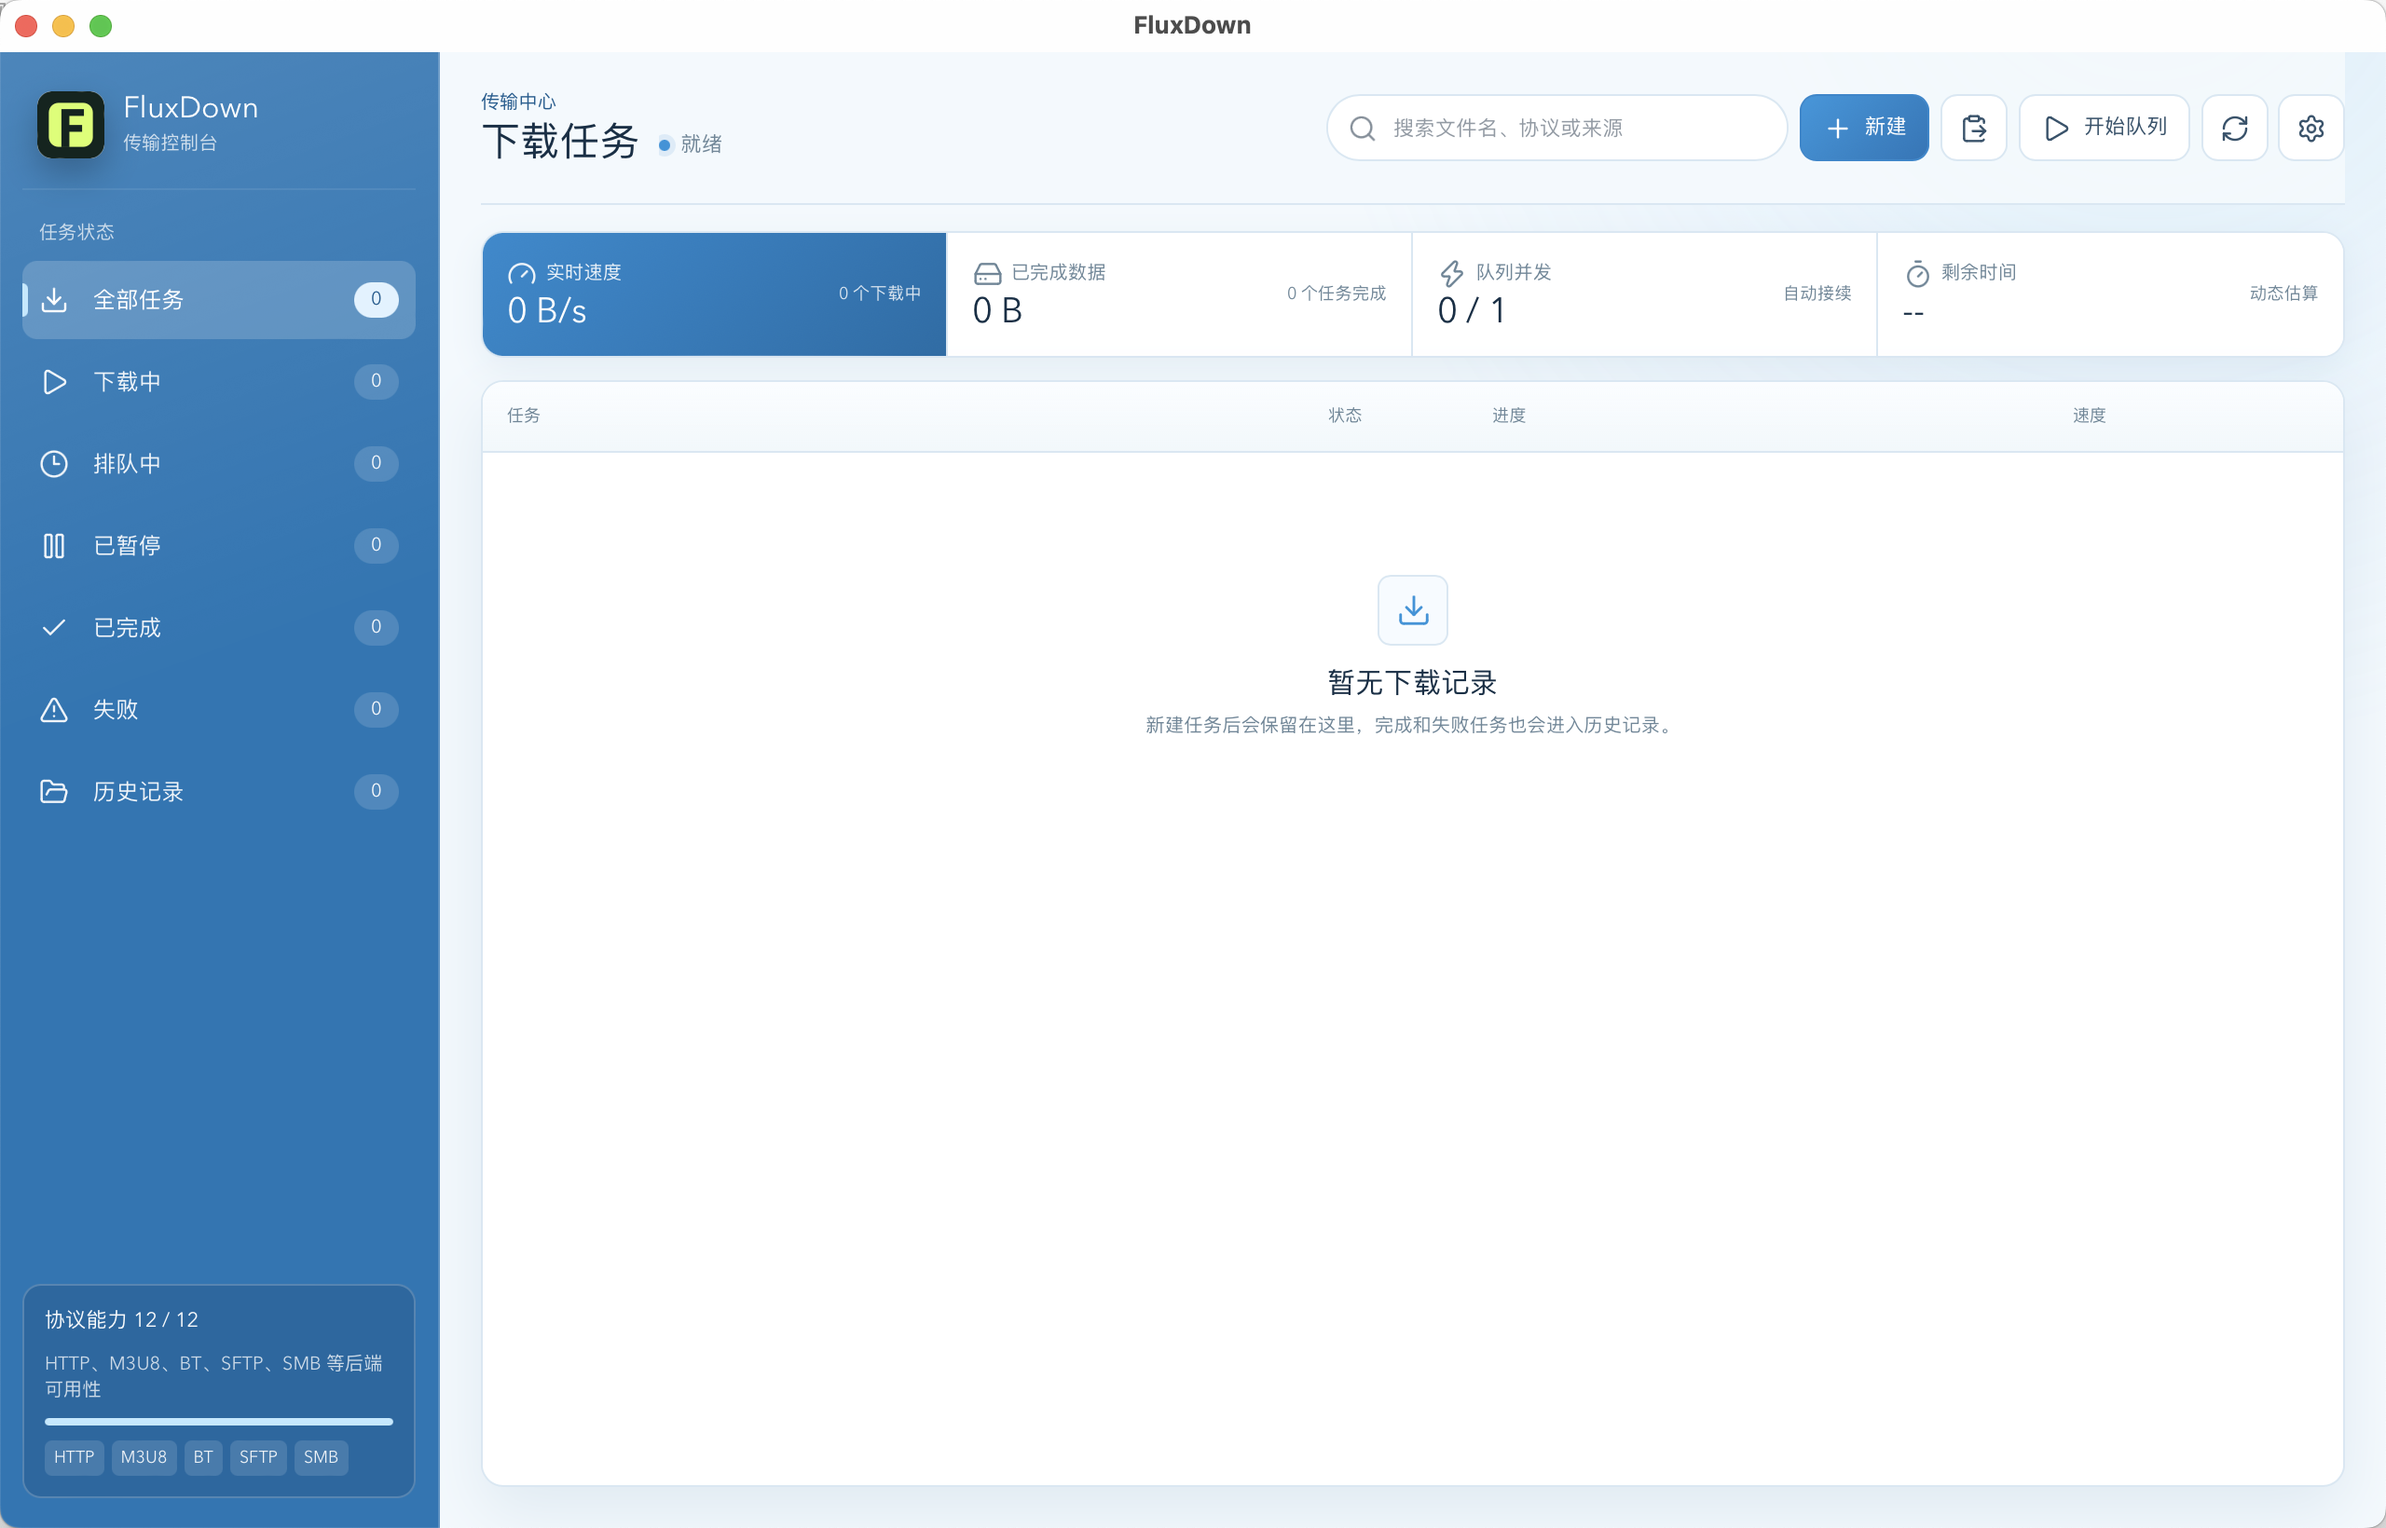
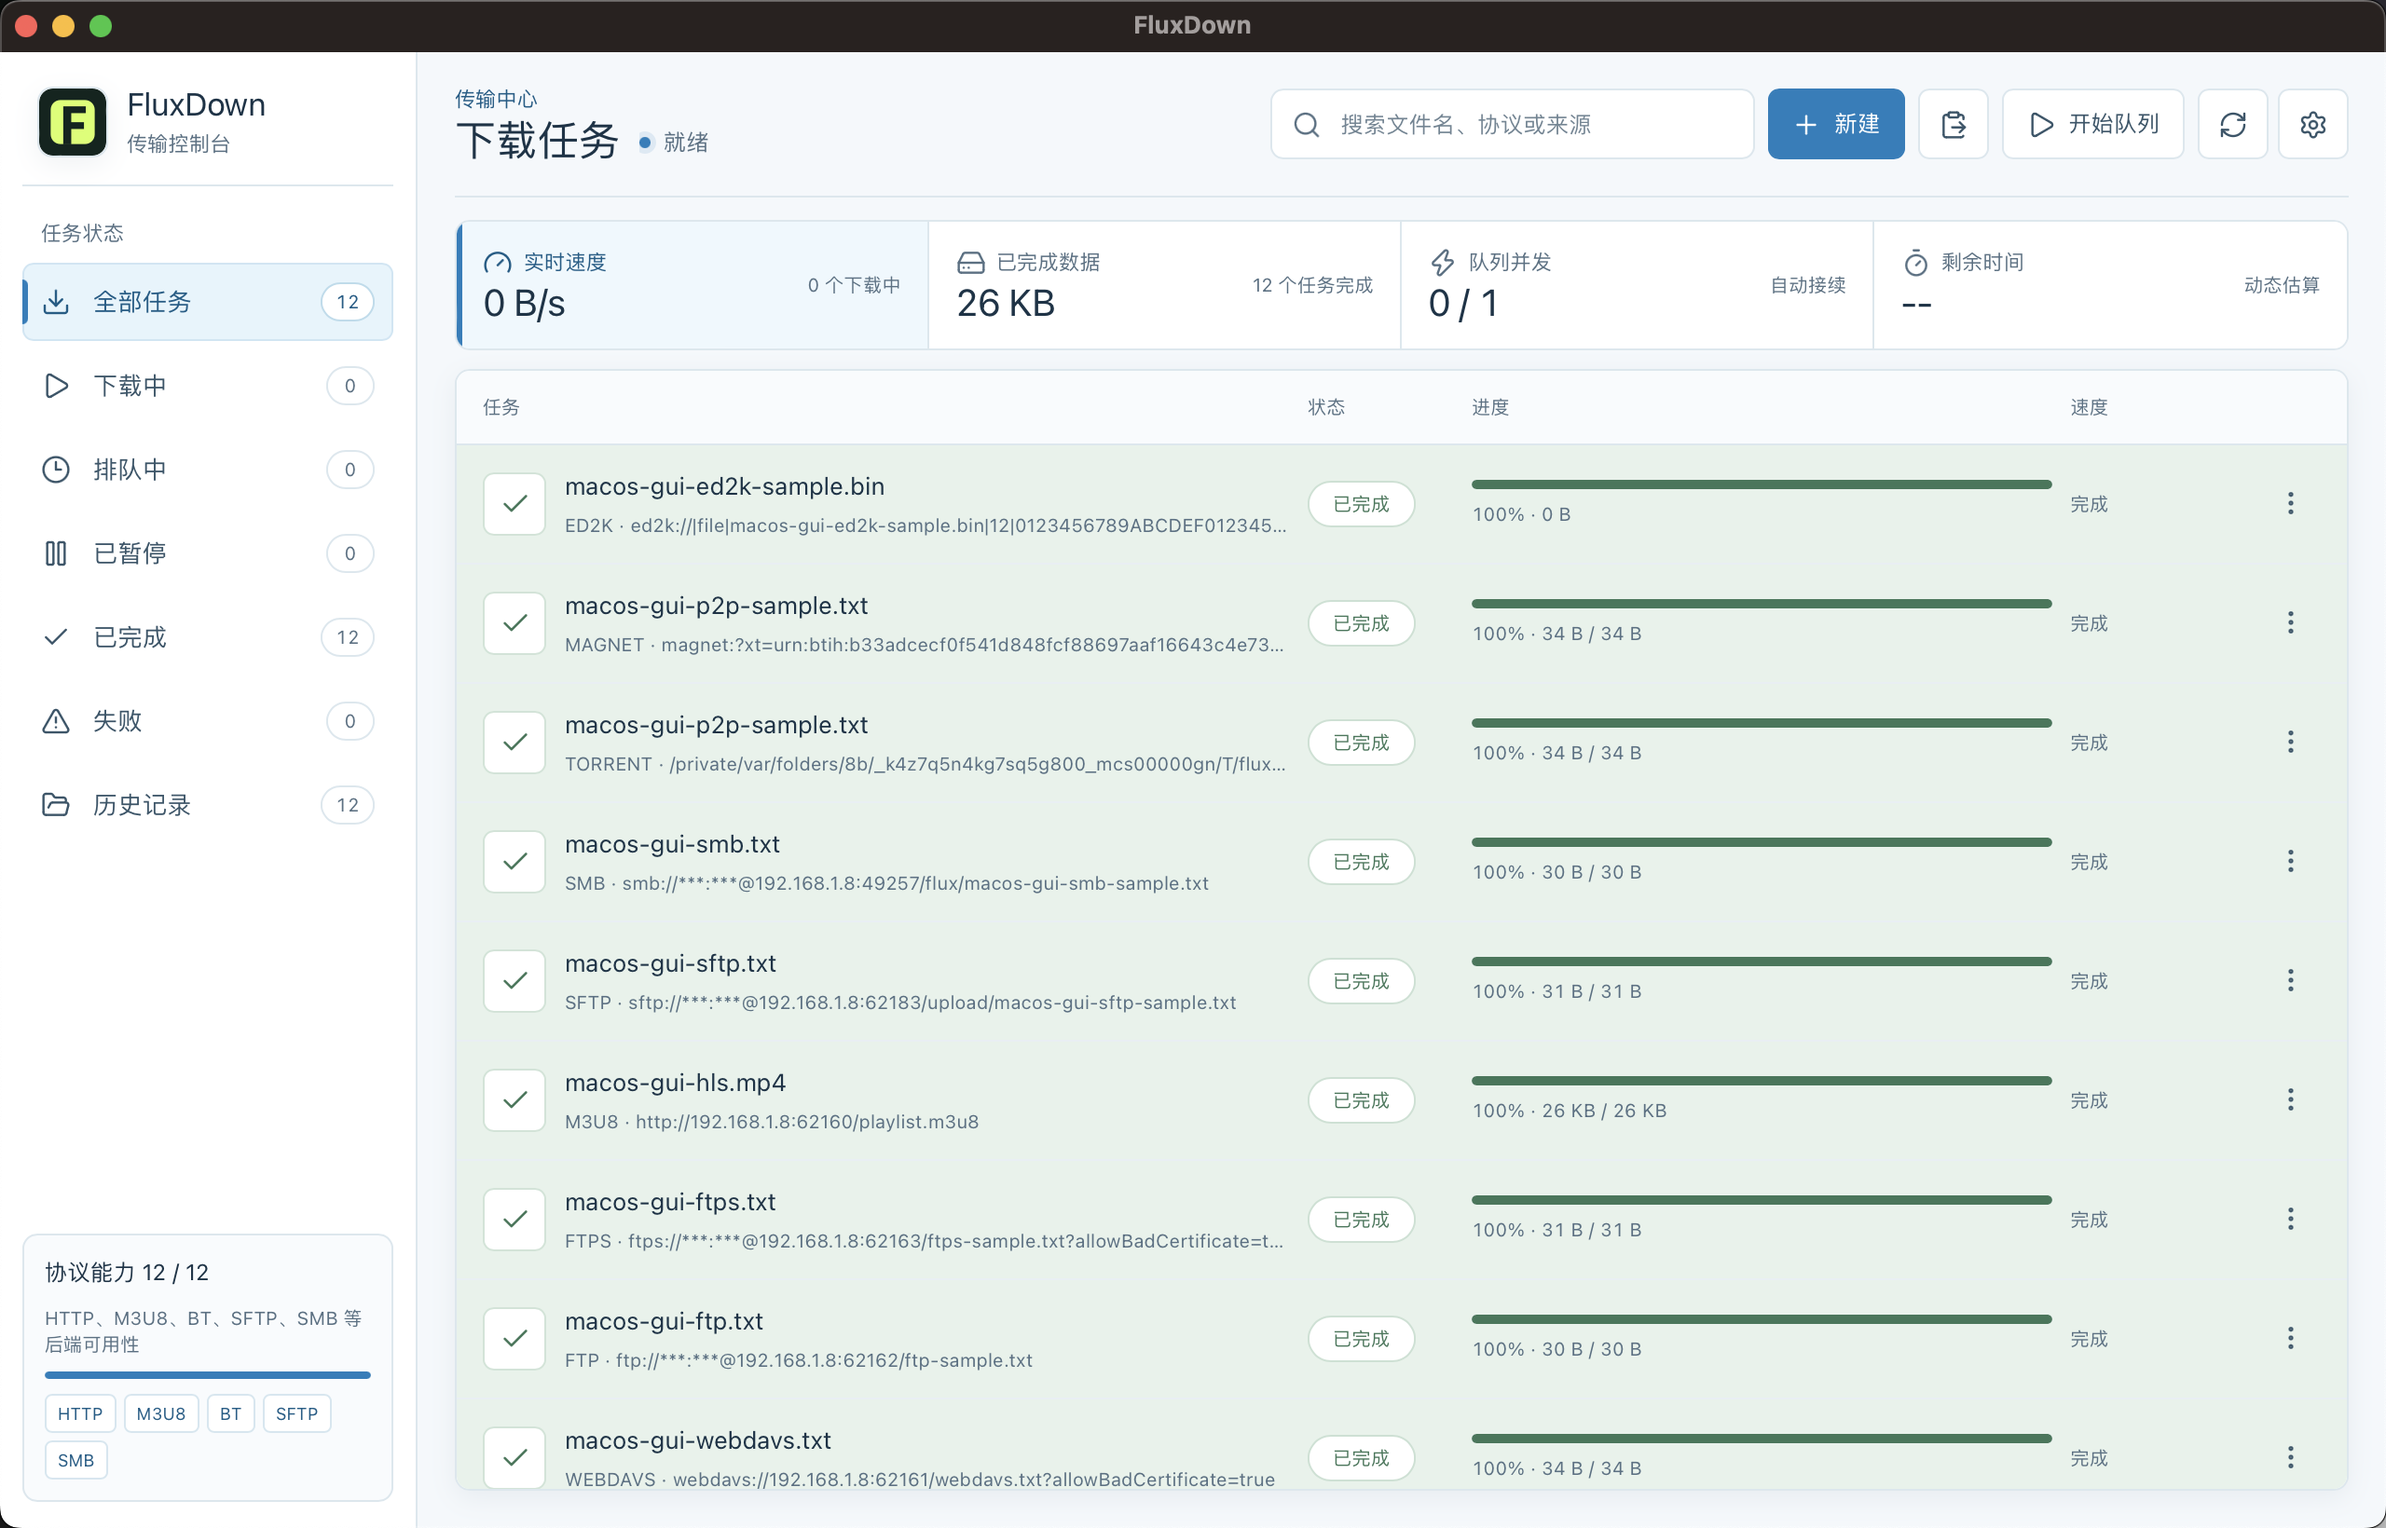
更新界面截图并发布 FluxDown 1.0.9

diff --git a/docs/download-verification.md b/docs/download-verification.md
@@ -1,6 +1,6 @@
 # 下载验证状态
 
-截至 2026-08-05，FluxDown 已完成 macOS、Windows、Android、iOS 当前阶段的界面截图和验证记录，但还不能表述为“所有平台、所有协议、所有前台 GUI/App 路径都已完成真实下载验证”。Android 真机已经补过一轮正常 App 下载验证；macOS CLI 已补充可重复脚本化多协议验证，macOS 原生 Tauri GUI 本轮又通过真实前台操作覆盖 HTTP、HTTPS、WebDAV transport、WebDAVS transport、FTP、FTPS、SFTP、SMB、m3u8/HLS、Torrent、Magnet 和 ed2k 共 12 类任务，其中前 11 类均完成真实文件落盘、大小和 SHA-256 校验，ed2k 只完成向迅雷的系统移交。iOS 已在 simulator 中跑通 App 内 HTTP/fMP4 HLS/fMP4 BYTERANGE HLS/TS HLS 下载 smoke；Windows CLI 和原生 Tauri GUI 已完成 12 协议真实用例验证；Linux 目前仍只有 CLI/GUI 构建产物和包文件存在性检查，尚未在 Linux 桌面环境完成真实 GUI 下载验证。
+截至 2026-08-06，FluxDown 已完成 macOS、Windows、Android、iOS 当前阶段的界面截图和验证记录，但还不能表述为“所有平台、所有协议、所有前台 GUI/App 路径都已完成真实下载验证”。Android 真机已经补过一轮正常 App 下载验证；macOS CLI 已补充可重复脚本化多协议验证，macOS 原生 Tauri GUI 本轮又通过真实前台操作覆盖 HTTP、HTTPS、WebDAV transport、WebDAVS transport、FTP、FTPS、SFTP、SMB、m3u8/HLS、Torrent、Magnet 和 ed2k 共 12 类任务，其中前 11 类均完成真实文件落盘、大小和 SHA-256 校验，ed2k 只完成向迅雷的系统移交。iOS 已在 simulator 中跑通 App 内 HTTP/fMP4 HLS/fMP4 BYTERANGE HLS/TS HLS 下载 smoke；Windows CLI 和原生 Tauri GUI 已完成 12 协议真实用例验证；Linux 目前仍只有 CLI/GUI 构建产物和包文件存在性检查，尚未在 Linux 桌面环境完成真实 GUI 下载验证。
 
 本页用于区分两类容易混淆的结论：
 
@@ -76,6 +76,8 @@ macOS 桌面、macOS CLI 和 iOS 当前目标的短清单见 [Apple 目标验收
 2026-08-04 为发布 `1.0.8` 完成本地发布前复验：版本已同步到根/桌面 npm 包、Rust workspace、Tauri 配置和 Flutter `1.0.8+9`；`npm run verify:macos`、`npm run verify:ios`、Android release APK/AAB 构建、桌面 lint、`npm run verify:artifacts` 和 `git diff --check` 均通过。macOS 验证覆盖 fmt、严格 Clippy、Rust/CLI/desktop 测试、release CLI HTTP/HLS/HLS BYTERANGE/FTP/FTPS/SFTP/SMB/Torrent/Magnet/队列控制 fixture、桌面 command FTPS/SFTP/SMB/Torrent/Magnet fixture、`FluxDown.app` ad-hoc 签名、`FluxDown_1.0.8_aarch64.dmg` checksum、许可证和 CI 手动触发策略；iOS 验证覆盖 analyze、38 项 Flutter 测试、debug frameworks、simulator app、unsigned device app 和 URL scheme。`npm run audit:release` 的本机代码与 macOS/Android/iOS 产物检查通过，剩余 `8 failed, 1 warning` 仅为本机没有 Linux/Windows 产物、跨平台 release manifest 和可选签名 IPA，这些由手动 GitHub Actions release workflow 或外部签名材料补齐。
 
 2026-08-05 新增并运行 `npm run verify:macos-desktop-gui-protocols` 通过：使用隔离队列和 macOS 辅助功能操作真实 `FluxDown.app`，逐项前台新建并启动 HTTP、HTTPS、WebDAV、WebDAVS、FTP、FTPS、m3u8/HLS、SFTP、SMB、Torrent、Magnet、ed2k 共 12 类任务。除 ed2k 为向迅雷的系统移交外，其余 11 类均完成真实落盘、大小和 SHA-256 校验。原始 JSON、截图和详细结论见 [macOS 原生桌面端 12 协议验证报告](macos-desktop-protocol-e2e-report-20260805.md)，后续各端复用地址见 [跨平台协议测试资源清单](protocol-test-resources.md)。
+
+2026-08-06 为发布 `1.0.9` 完成本地发版前复验：版本已同步到根/桌面 npm 包、Rust workspace、Tauri 配置和 Flutter `1.0.9+10`；README 的 macOS 下载列表图替换为新版 `2560×1640` Retina 截图。桌面 lint/build、`npm run verify:ci-config`、`npm run verify:macos`、`npm run verify:ios`、Android release APK/AAB 构建、`npm run verify:artifacts` 和 `git diff --check` 均通过；生成并校验 `FluxDown_1.0.9_aarch64.dmg`、Android release APK/AAB、iOS debug frameworks、simulator app 和 unsigned device app。`npm run audit:release` 返回预期的 `8 failed, 1 warning`：失败项仅为本机未生成的 Linux 四项、Windows 三项和跨平台 release manifest，警告为缺少 Apple 签名材料的可选 IPA；这些产物由手动 GitHub Actions release workflow 或外部签名材料补齐。
 
 ## 分端结论
 

diff --git a/README.en.md b/README.en.md
@@ -2,7 +2,7 @@
 
 [中文](README.md)
 
-FluxDown is a multi-protocol downloader for desktop and mobile. The current version is `1.0.8`; see the latest release at [FluxDown 1.0.8](https://github.com/lonnnnnng/fluxdown/releases/tag/v1.0.8).
+FluxDown is a multi-protocol downloader for desktop and mobile. The current version is `1.0.9`; see the latest release at [FluxDown 1.0.9](https://github.com/lonnnnnng/fluxdown/releases/tag/v1.0.9).
 
 ## Current Status
 
@@ -36,10 +36,10 @@ FluxDown is a multi-protocol downloader for desktop and mobile. The current vers
 
 | Platform | Verified | Still Needed |
 | --- | --- | --- |
-| macOS Desktop/CLI | Release CLI covers HTTP/HLS/FTP/FTPS/SFTP/SMB/Torrent/Magnet plus queue controls. Foreground desktop GUI covers HTTP/HLS/Torrent/Magnet. Tauri commands cover HTTP/HLS/WebDAV/FTP/FTPS/SFTP/SMB/Torrent/Magnet. | Pure GUI click-through coverage for FTP/FTPS/SFTP/SMB/WebDAV still needs a separate pass. |
+| macOS Desktop/CLI | Release CLI covers HTTP/HLS/FTP/FTPS/SFTP/SMB/Torrent/Magnet plus queue controls. Foreground desktop GUI has completed real validation for 12 protocol cases. Tauri commands cover HTTP/HLS/WebDAV/FTP/FTPS/SFTP/SMB/Torrent/Magnet. | ed2k is handed off to an external client by product definition; WebDAV/WebDAVS transport mapping is verified, while full directory traversal still needs a separate pass. |
 | Windows Desktop/CLI | CI artifacts have been published. A Windows development machine completed CLI real-download validation for 12 protocol cases and native Tauri GUI foreground validation for 12 protocol cases. ed2k completed the product-defined system handoff flow. | ed2k is not completed by FluxDown's own internal downloader. GUI verification used a dedicated E2E window and isolated queue. |
 | Linux Desktop/CLI | CI builds Linux CLI, GUI executable, `.deb`, and `.rpm` artifacts and checks that they are non-empty. | Installing the Linux GUI in a desktop environment and completing a real download is still pending. |
-| Android App | Historical `1.0.4` real-device coverage includes local HTTP/HTTPS/FTP/FTPS/SFTP/SMB, small HLS, small torrent, small magnet, media-sized HLS, single/multi-file torrent, and magnet. The current `1.0.8+9` release APK was launched on a Redmi Note 8 Pro and its queue, new-task dialog, and settings interactions were rechecked for the README screenshots. | Protocol downloads still need to be rerun on the current version. Store distribution also needs signing, license, and background-behavior checks. |
+| Android App | Historical `1.0.4` real-device coverage includes local HTTP/HTTPS/FTP/FTPS/SFTP/SMB, small HLS, small torrent, small magnet, media-sized HLS, single/multi-file torrent, and magnet. The `1.0.8+9` release APK was launched on a Redmi Note 8 Pro and its queue, new-task dialog, and settings interactions were rechecked for the README screenshots. | Protocol downloads still need to be rerun on the current version. Store distribution also needs signing, license, and background-behavior checks. |
 | iOS App | CI builds the iOS simulator app and unsigned device app. iOS simulator smoke covers HTTP, fMP4 HLS, BYTERANGE HLS, and TS HLS downloads. | Signed IPA, iPhone installation, QR scanning, file picking, share/open flows, and physical-device capabilities are still pending. |
 
 See [Download verification status](docs/download-verification.md) for detailed evidence.
@@ -89,7 +89,7 @@ A signed IPA requires an Apple certificate, provisioning profile, Team ID, and k
 
 ## Release Assets
 
-The `v1.0.8` release includes:
+The `v1.0.9` release includes:
 
 - Android debug APK, release APK, and release AAB
 - iOS simulator app and unsigned device app
@@ -98,7 +98,7 @@ The `v1.0.8` release includes:
 - Linux CLI, desktop executable, deb, and rpm
 - Release manifest, LICENSE, and third-party license notices
 
-Release page: [FluxDown 1.0.8](https://github.com/lonnnnnng/fluxdown/releases/tag/v1.0.8)
+Release page: [FluxDown 1.0.9](https://github.com/lonnnnnng/fluxdown/releases/tag/v1.0.9)
 
 ## Documentation
 

diff --git a/docs/README.md b/docs/README.md
@@ -29,7 +29,7 @@ FluxDown 是一个跨平台下载器工作区：
 - 移动端：Android 和 iPhone，使用 Flutter App。
 - 共享核心：Rust core crate 提供协议检测、任务模型、任务存储、队列运行器和桌面下载执行能力。
 
-当前版本号为 `1.0.8`。发布流水线在 `.github/workflows/build.yml` 中定义，只允许在 GitHub Actions 页面手动触发，并且必须显式选择 `run_mode=package` 或 `run_mode=release`；普通代码推送和 `v*` 标签推送都不会自动执行。
+当前版本号为 `1.0.9`。发布流水线在 `.github/workflows/build.yml` 中定义，只允许在 GitHub Actions 页面手动触发，并且必须显式选择 `run_mode=package` 或 `run_mode=release`；普通代码推送和 `v*` 标签推送都不会自动执行。
 
 ## 当前版本重点
 
